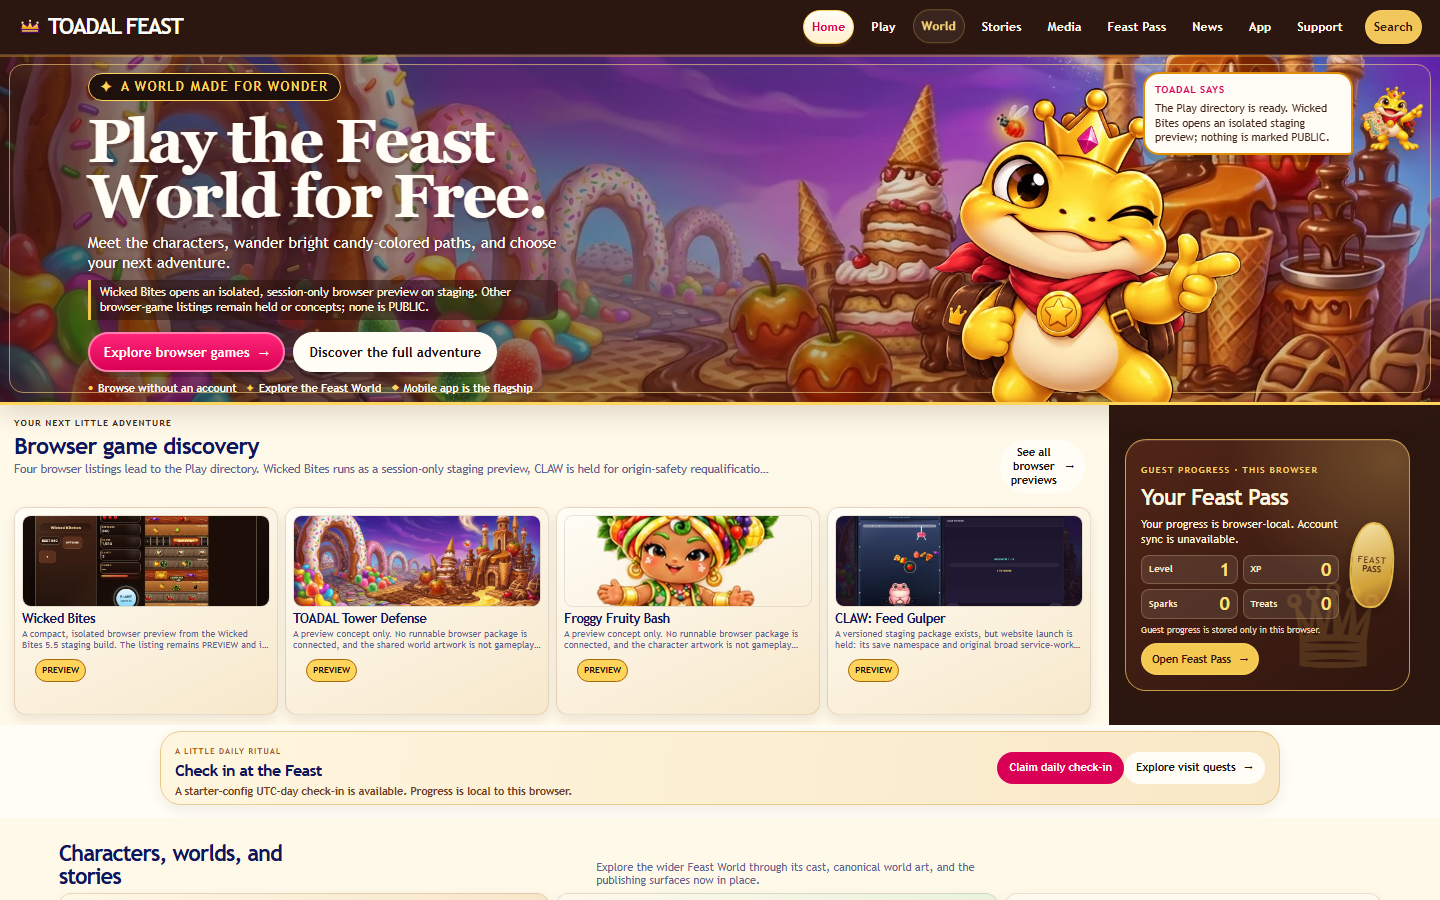
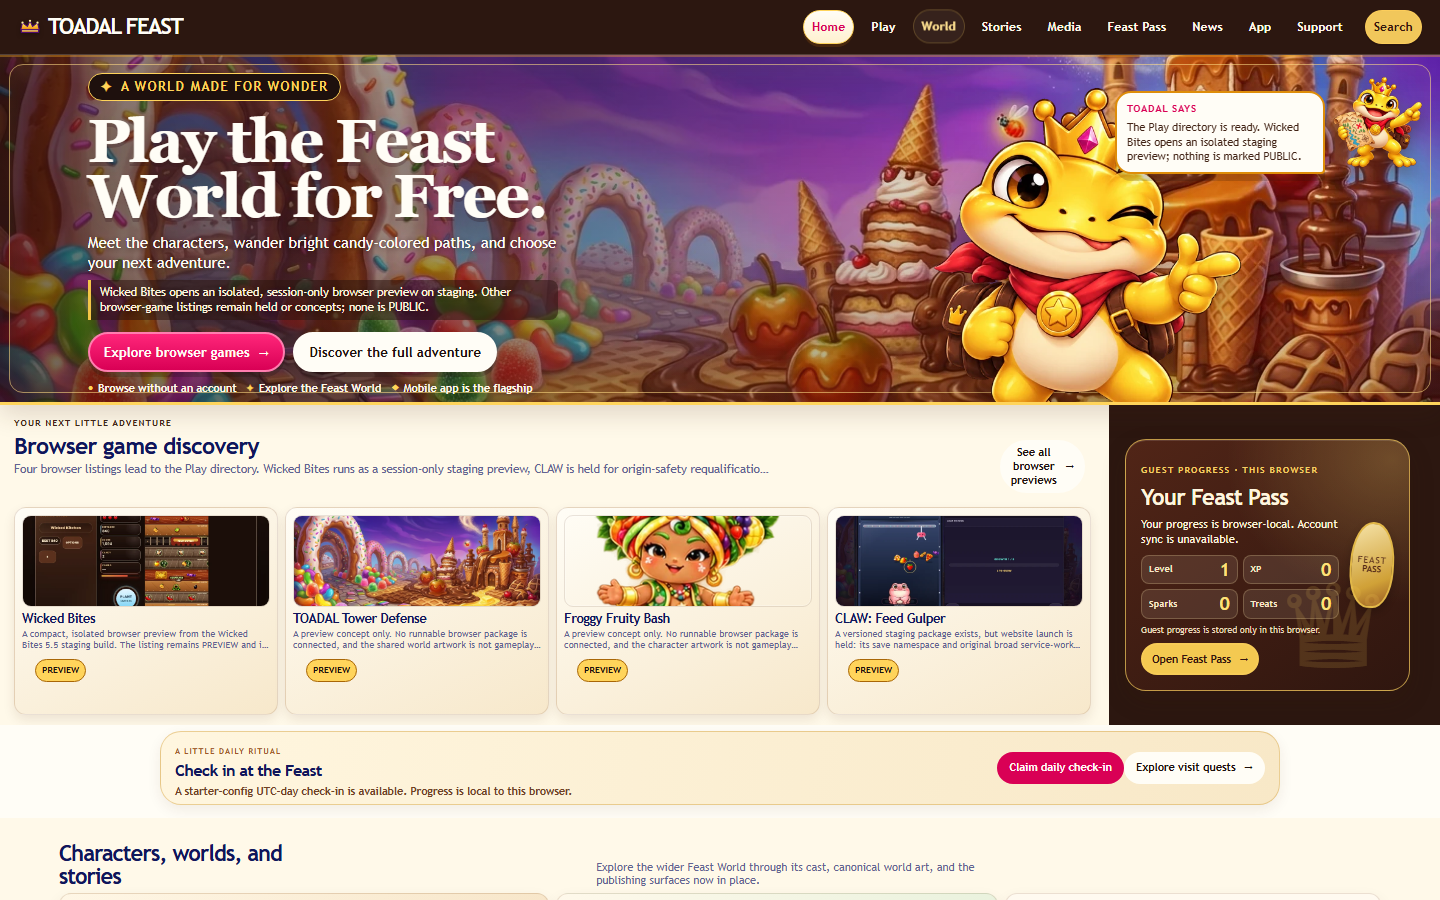
Complete owner visual closure evidence

Changed region(s): [[0.75, 0.0622, 1.0, 0.2178]]

diff --git a/dist/assets/css/site.css b/dist/assets/css/site.css
@@ -5490,11 +5490,6 @@ body:has(.home-hero) #app .app-conversion-copy > .section-kicker {
   }
 }
 
-main:has(.home-hero) > [data-studio-variant="companion"] .toadal-companion {
-  inset-block-start: max(72px, calc(env(safe-area-inset-top, 0px) + 12px)) !important;
-  inset-block-end: auto !important;
-}
-
 /* Keep the Home companion outside the desktop grid and mobile document flow. */
 main:has(.home-hero) > #companion {
   height: 0 !important;
@@ -5503,13 +5498,56 @@ main:has(.home-hero) > #companion {
   overflow: visible !important;
 }
 
-/* Keep the floating helper clear of Search's persistent bottom-edge form controls. */
-body:has(.search-page) .toadal-companion {
+/* Keep the fixed companion out of Home's hero/section text at all tested scroll positions. */
+main:has(.home-hero) > [data-studio-variant="companion"] .toadal-companion {
   inset-block-start: max(72px, calc(env(safe-area-inset-top, 0px) + 12px)) !important;
   inset-block-end: auto !important;
 }
 
+/* Search and Contact keep fixed bottom-edge controls/forms clear of the companion. */
+body:has(.search-page) .toadal-companion,
 body:has(#contact-category) .toadal-companion {
   inset-block-start: max(72px, calc(env(safe-area-inset-top, 0px) + 12px)) !important;
   inset-block-end: auto !important;
+}
+
+@media (max-width: 760px) {
+  body:has(#contact-category) .toadal-companion {
+    inset-block-start: max(112px, calc(env(safe-area-inset-top, 0px) + 32px)) !important;
+  }
+}
+
+/* Beat the legacy Home-specific utility-icon sizing; keep Toadal appreciable. */
+main:has(.home-hero) > [data-studio-variant="companion"] .companion-toggle,
+main:has(.home-hero) > [data-studio-variant="companion"] .companion-image {
+  width: 96px;
+  height: 102px;
+}
+
+main:has(.home-hero) > [data-studio-variant="companion"] .companion-image {
+  max-height: 102px;
+}
+
+@media (max-width: 760px) {
+  main:has(.home-hero) > [data-studio-variant="companion"] .companion-toggle,
+  main:has(.home-hero) > [data-studio-variant="companion"] .companion-image {
+    width: 82px;
+    height: 88px;
+  }
+
+  main:has(.home-hero) > [data-studio-variant="companion"] .companion-image {
+    max-height: 88px;
+  }
+}
+
+@media (max-width: 360px) {
+  main:has(.home-hero) > [data-studio-variant="companion"] .companion-toggle,
+  main:has(.home-hero) > [data-studio-variant="companion"] .companion-image {
+    width: 72px;
+    height: 78px;
+  }
+
+  main:has(.home-hero) > [data-studio-variant="companion"] .companion-image {
+    max-height: 78px;
+  }
 }

diff --git a/studio-project/toadal-feast-website/reference/assets/css/site.css b/studio-project/toadal-feast-website/reference/assets/css/site.css
@@ -5490,11 +5490,6 @@ body:has(.home-hero) #app .app-conversion-copy > .section-kicker {
   }
 }
 
-main:has(.home-hero) > [data-studio-variant="companion"] .toadal-companion {
-  inset-block-start: max(72px, calc(env(safe-area-inset-top, 0px) + 12px)) !important;
-  inset-block-end: auto !important;
-}
-
 /* Keep the Home companion outside the desktop grid and mobile document flow. */
 main:has(.home-hero) > #companion {
   height: 0 !important;
@@ -5503,13 +5498,56 @@ main:has(.home-hero) > #companion {
   overflow: visible !important;
 }
 
-/* Keep the floating helper clear of Search's persistent bottom-edge form controls. */
-body:has(.search-page) .toadal-companion {
+/* Keep the fixed companion out of Home's hero/section text at all tested scroll positions. */
+main:has(.home-hero) > [data-studio-variant="companion"] .toadal-companion {
   inset-block-start: max(72px, calc(env(safe-area-inset-top, 0px) + 12px)) !important;
   inset-block-end: auto !important;
 }
 
+/* Search and Contact keep fixed bottom-edge controls/forms clear of the companion. */
+body:has(.search-page) .toadal-companion,
 body:has(#contact-category) .toadal-companion {
   inset-block-start: max(72px, calc(env(safe-area-inset-top, 0px) + 12px)) !important;
   inset-block-end: auto !important;
+}
+
+@media (max-width: 760px) {
+  body:has(#contact-category) .toadal-companion {
+    inset-block-start: max(112px, calc(env(safe-area-inset-top, 0px) + 32px)) !important;
+  }
+}
+
+/* Beat the legacy Home-specific utility-icon sizing; keep Toadal appreciable. */
+main:has(.home-hero) > [data-studio-variant="companion"] .companion-toggle,
+main:has(.home-hero) > [data-studio-variant="companion"] .companion-image {
+  width: 96px;
+  height: 102px;
+}
+
+main:has(.home-hero) > [data-studio-variant="companion"] .companion-image {
+  max-height: 102px;
+}
+
+@media (max-width: 760px) {
+  main:has(.home-hero) > [data-studio-variant="companion"] .companion-toggle,
+  main:has(.home-hero) > [data-studio-variant="companion"] .companion-image {
+    width: 82px;
+    height: 88px;
+  }
+
+  main:has(.home-hero) > [data-studio-variant="companion"] .companion-image {
+    max-height: 88px;
+  }
+}
+
+@media (max-width: 360px) {
+  main:has(.home-hero) > [data-studio-variant="companion"] .companion-toggle,
+  main:has(.home-hero) > [data-studio-variant="companion"] .companion-image {
+    width: 72px;
+    height: 78px;
+  }
+
+  main:has(.home-hero) > [data-studio-variant="companion"] .companion-image {
+    max-height: 78px;
+  }
 }

diff --git a/docs/review/owner-visual-closure-20261001/OWNER_VISUAL_CLOSURE.md b/docs/review/owner-visual-closure-20261001/OWNER_VISUAL_CLOSURE.md
@@ -16,7 +16,8 @@ This is a bounded Home/global companion visual and behavior closure. No page/con
 
 - Kept the Home hero’s canonical world art and Toadal focal image, adding a restrained gold frame and clearer display type/flagship treatment. Truthful preview and availability copy remains unchanged.
 - At 320–430px, increased hero breathing room and scaled the foreground Toadal to avoid the hero image intersecting either primary action. Browser pixel-alpha comparison confirms zero opaque-art pixels over either CTA at 320, 390, and 430px.
-- Kept the contextual helper attached to the viewport, removed its Home document-flow slot, and placed it at the upper-right on Home, Search, and Contact where bottom-right placement obscured visible copy or form controls. Other routes retain the lower-right placement.
+- Kept the contextual helper attached to the viewport and removed its Home document-flow slot. The final character control measures 96×102px on desktop, 82×88px on 390/430px mobile, and 72×78px at 320px.
+- The requested lower-right corner was tested. At Home 430×932, it overlapped 12.5% of the Tower Defense heading and 31.6% of its preview copy; on Search desktop, it overlapped 38.9% of the Search control. To preserve the stronger no-obstruction requirement, Home, Search, and Contact use a fixed upper-right position; other routes retain lower-right. This is an explicit, unresolved placement deviation from the preferred bottom-right location, not a claim of strict compliance.
 - No runtime JavaScript or interaction semantics were modified.
 
 ## Studio render and checks
@@ -30,7 +31,7 @@ This is a bounded Home/global companion visual and behavior closure. No page/con
 
 ## Companion-specific browser verification
 
-The focused CDP harness passed with images decoded and navigation checked against the requested route. It verified fixed viewport geometry at Home 1440×900, 320×800, 390×844, and 430×932; top/middle/bottom Home scroll samples at desktop, 390px, and 430px; and no sampled companion collision with actionable controls or rendered text lines. It also proved real World hover and touch reactions (`curious` state plus loaded map-guide artwork), and panel toggle persistence across reload.
+The focused CDP harness passed with images decoded and navigation checked against the requested route. It verified fixed viewport geometry at Home 1440×900, 320×800, 390×844, and 430×932; top/middle/bottom Home scroll samples at desktop, 390px, and 430px; and no sampled companion collision above the 5% overlap threshold with actionable controls or rendered text lines at the final upper-right placements. It also proved real World hover and touch reactions (`curious` state plus loaded map-guide artwork), and panel toggle persistence across reload. A direct lower-right comparison was also performed: it failed the no-obstruction check on Home 430px and Search desktop, which is why those routes use the upper-right exception.
 
 Focused route checks passed with no horizontal overflow or sampled text/control obstruction on Toadal profile 390px, Search desktop/mobile, and Contact mobile. These checks found and drove fixes for the Search submit button and Contact form overlap before the final gate.
 

diff --git a/docs/review/owner-preview-gate-20261001/OWNER_PREVIEW_GATE.md b/docs/review/owner-preview-gate-20261001/OWNER_PREVIEW_GATE.md
@@ -7,19 +7,19 @@
 
 | Gate | Result | Time |
 |---|---:|---:|
-| integrated-node-48 | PASS | 1.51s |
-| home-visual-contract | PASS | 0.07s |
+| integrated-node-48 | PASS | 1.37s |
+| home-visual-contract | PASS | 0.06s |
 | navigation-truth | PASS | 0.05s |
 | character-registry | PASS | 0.05s |
-| gated-ecosystem | PASS | 0.06s |
-| manifest | PASS | 0.06s |
-| search-discovery | PASS | 0.06s |
+| gated-ecosystem | PASS | 0.05s |
+| manifest | PASS | 0.05s |
+| search-discovery | PASS | 0.05s |
 | nonhome-truth | PASS | 0.06s |
-| visual-asset-authority | PASS | 0.14s |
-| nonhome-layout-closure | PASS | 0.06s |
-| cartridge-isolation | PASS | 0.24s |
-| render-freshness | PASS | 0.07s |
-| pages-basepath | PASS | 0.1s |
-| static-links | PASS | 0.29s |
-| staging-robots | PASS | 0.08s |
-| browser-matrix | PASS | 27.18s |
+| visual-asset-authority | PASS | 0.12s |
+| nonhome-layout-closure | PASS | 0.05s |
+| cartridge-isolation | PASS | 0.14s |
+| render-freshness | PASS | 0.06s |
+| pages-basepath | PASS | 0.08s |
+| static-links | PASS | 0.24s |
+| staging-robots | PASS | 0.07s |
+| browser-matrix | PASS | 27.49s |
